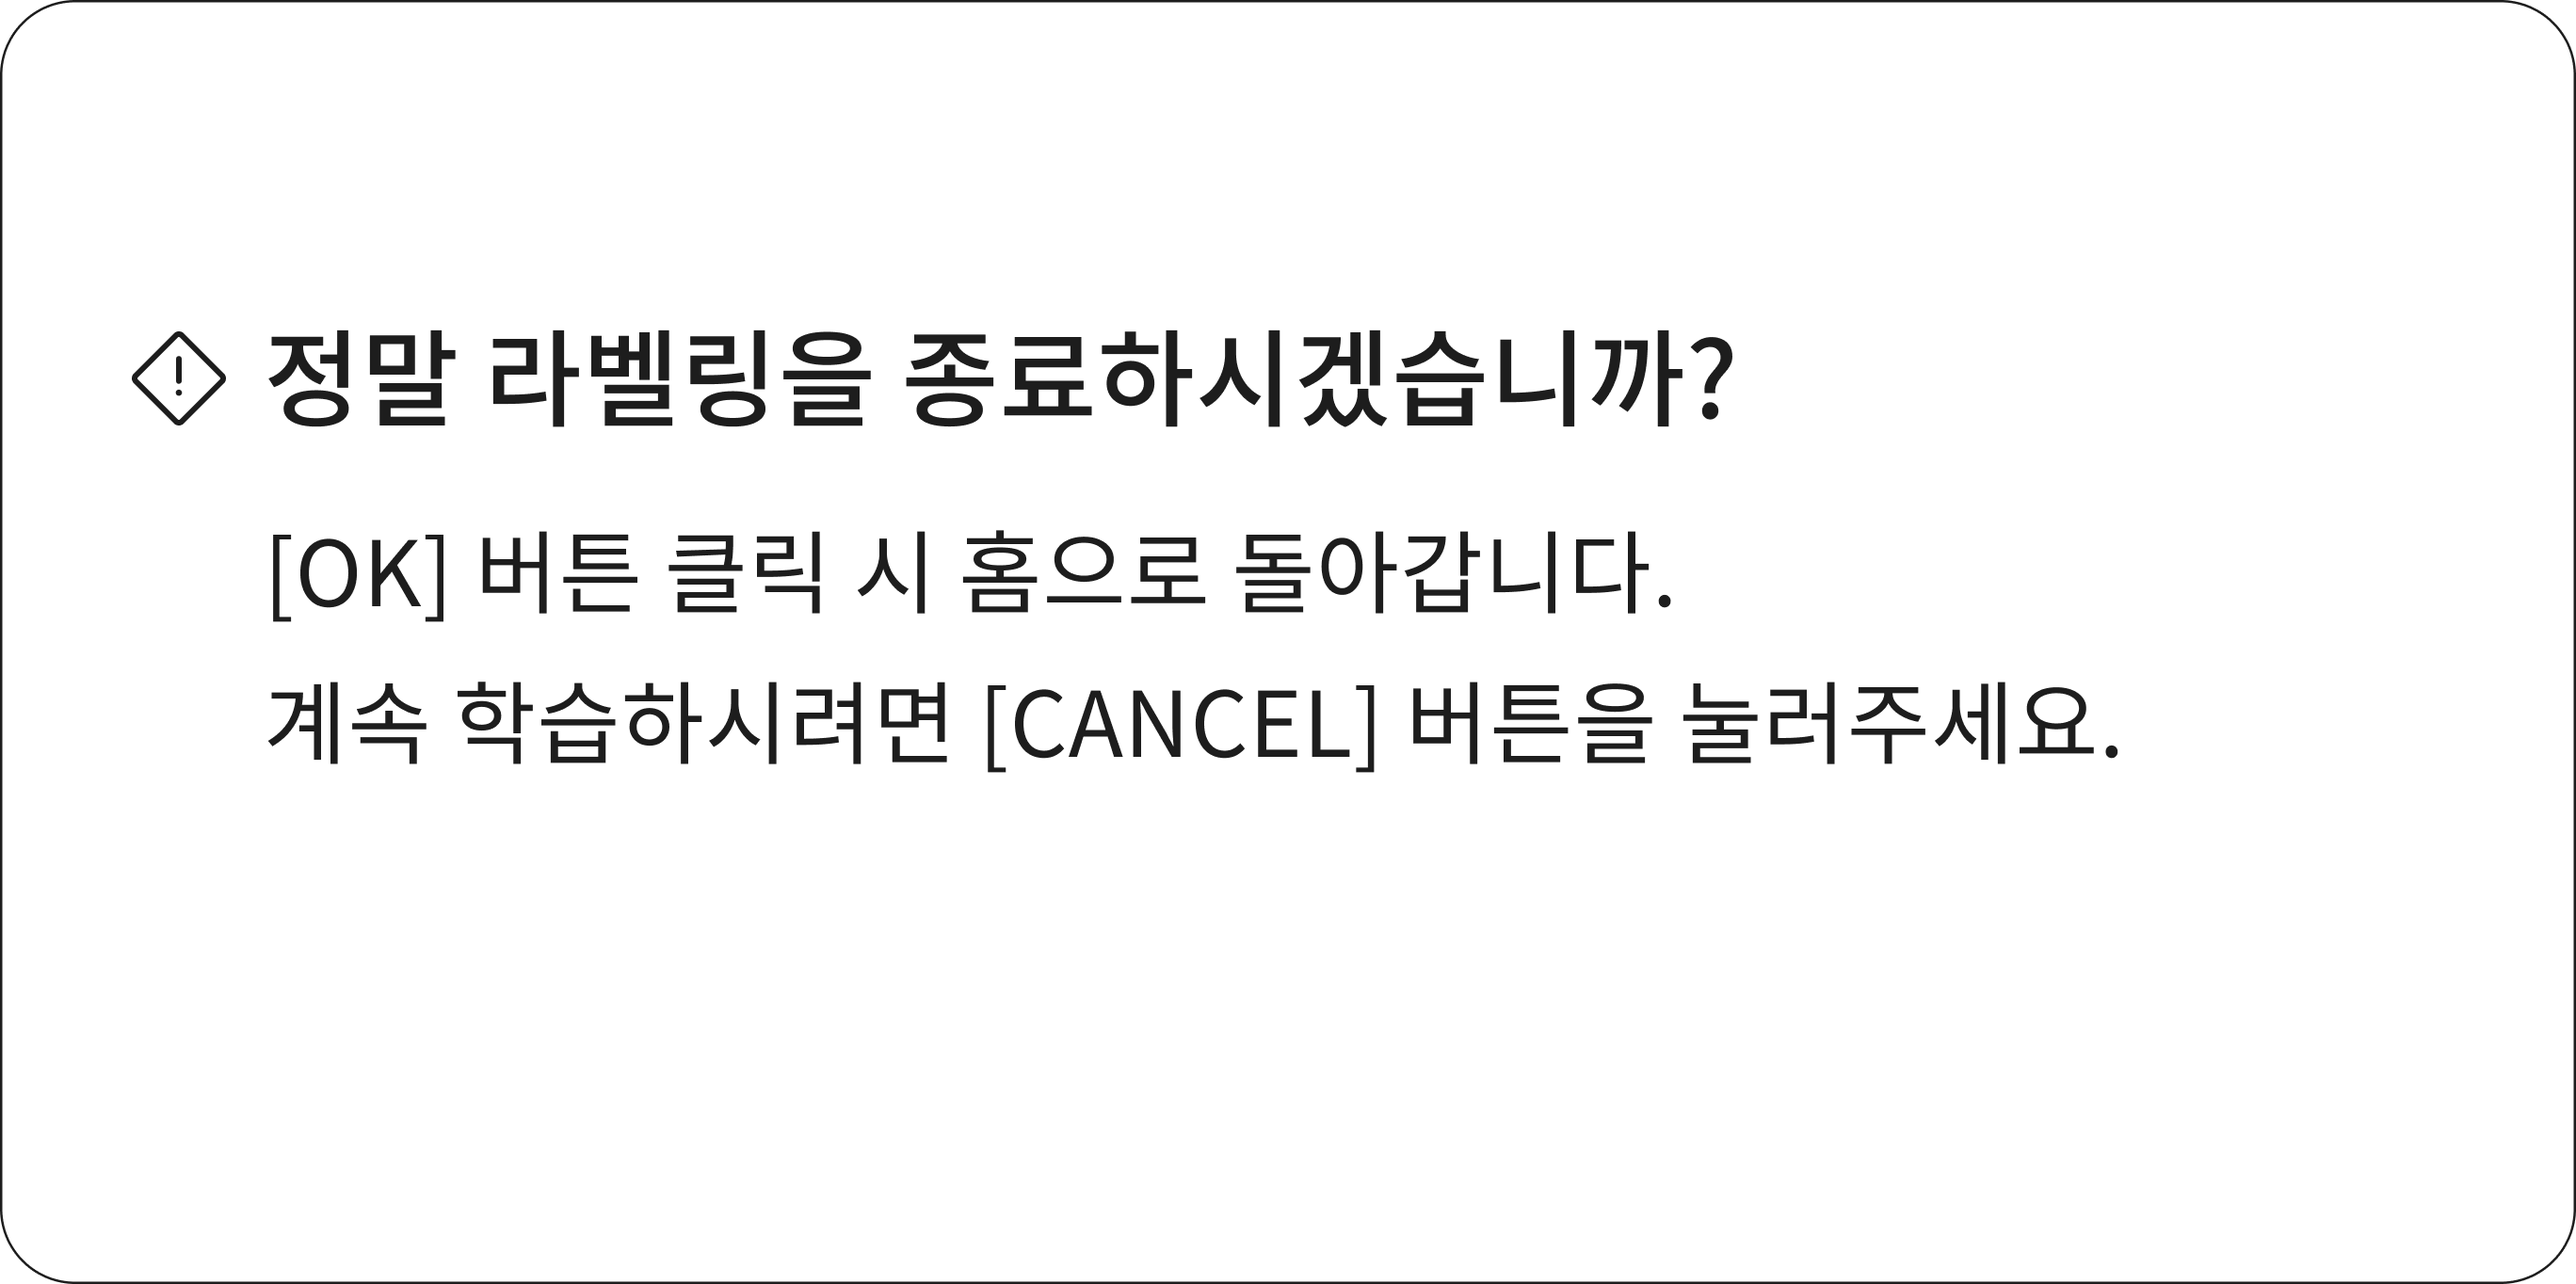
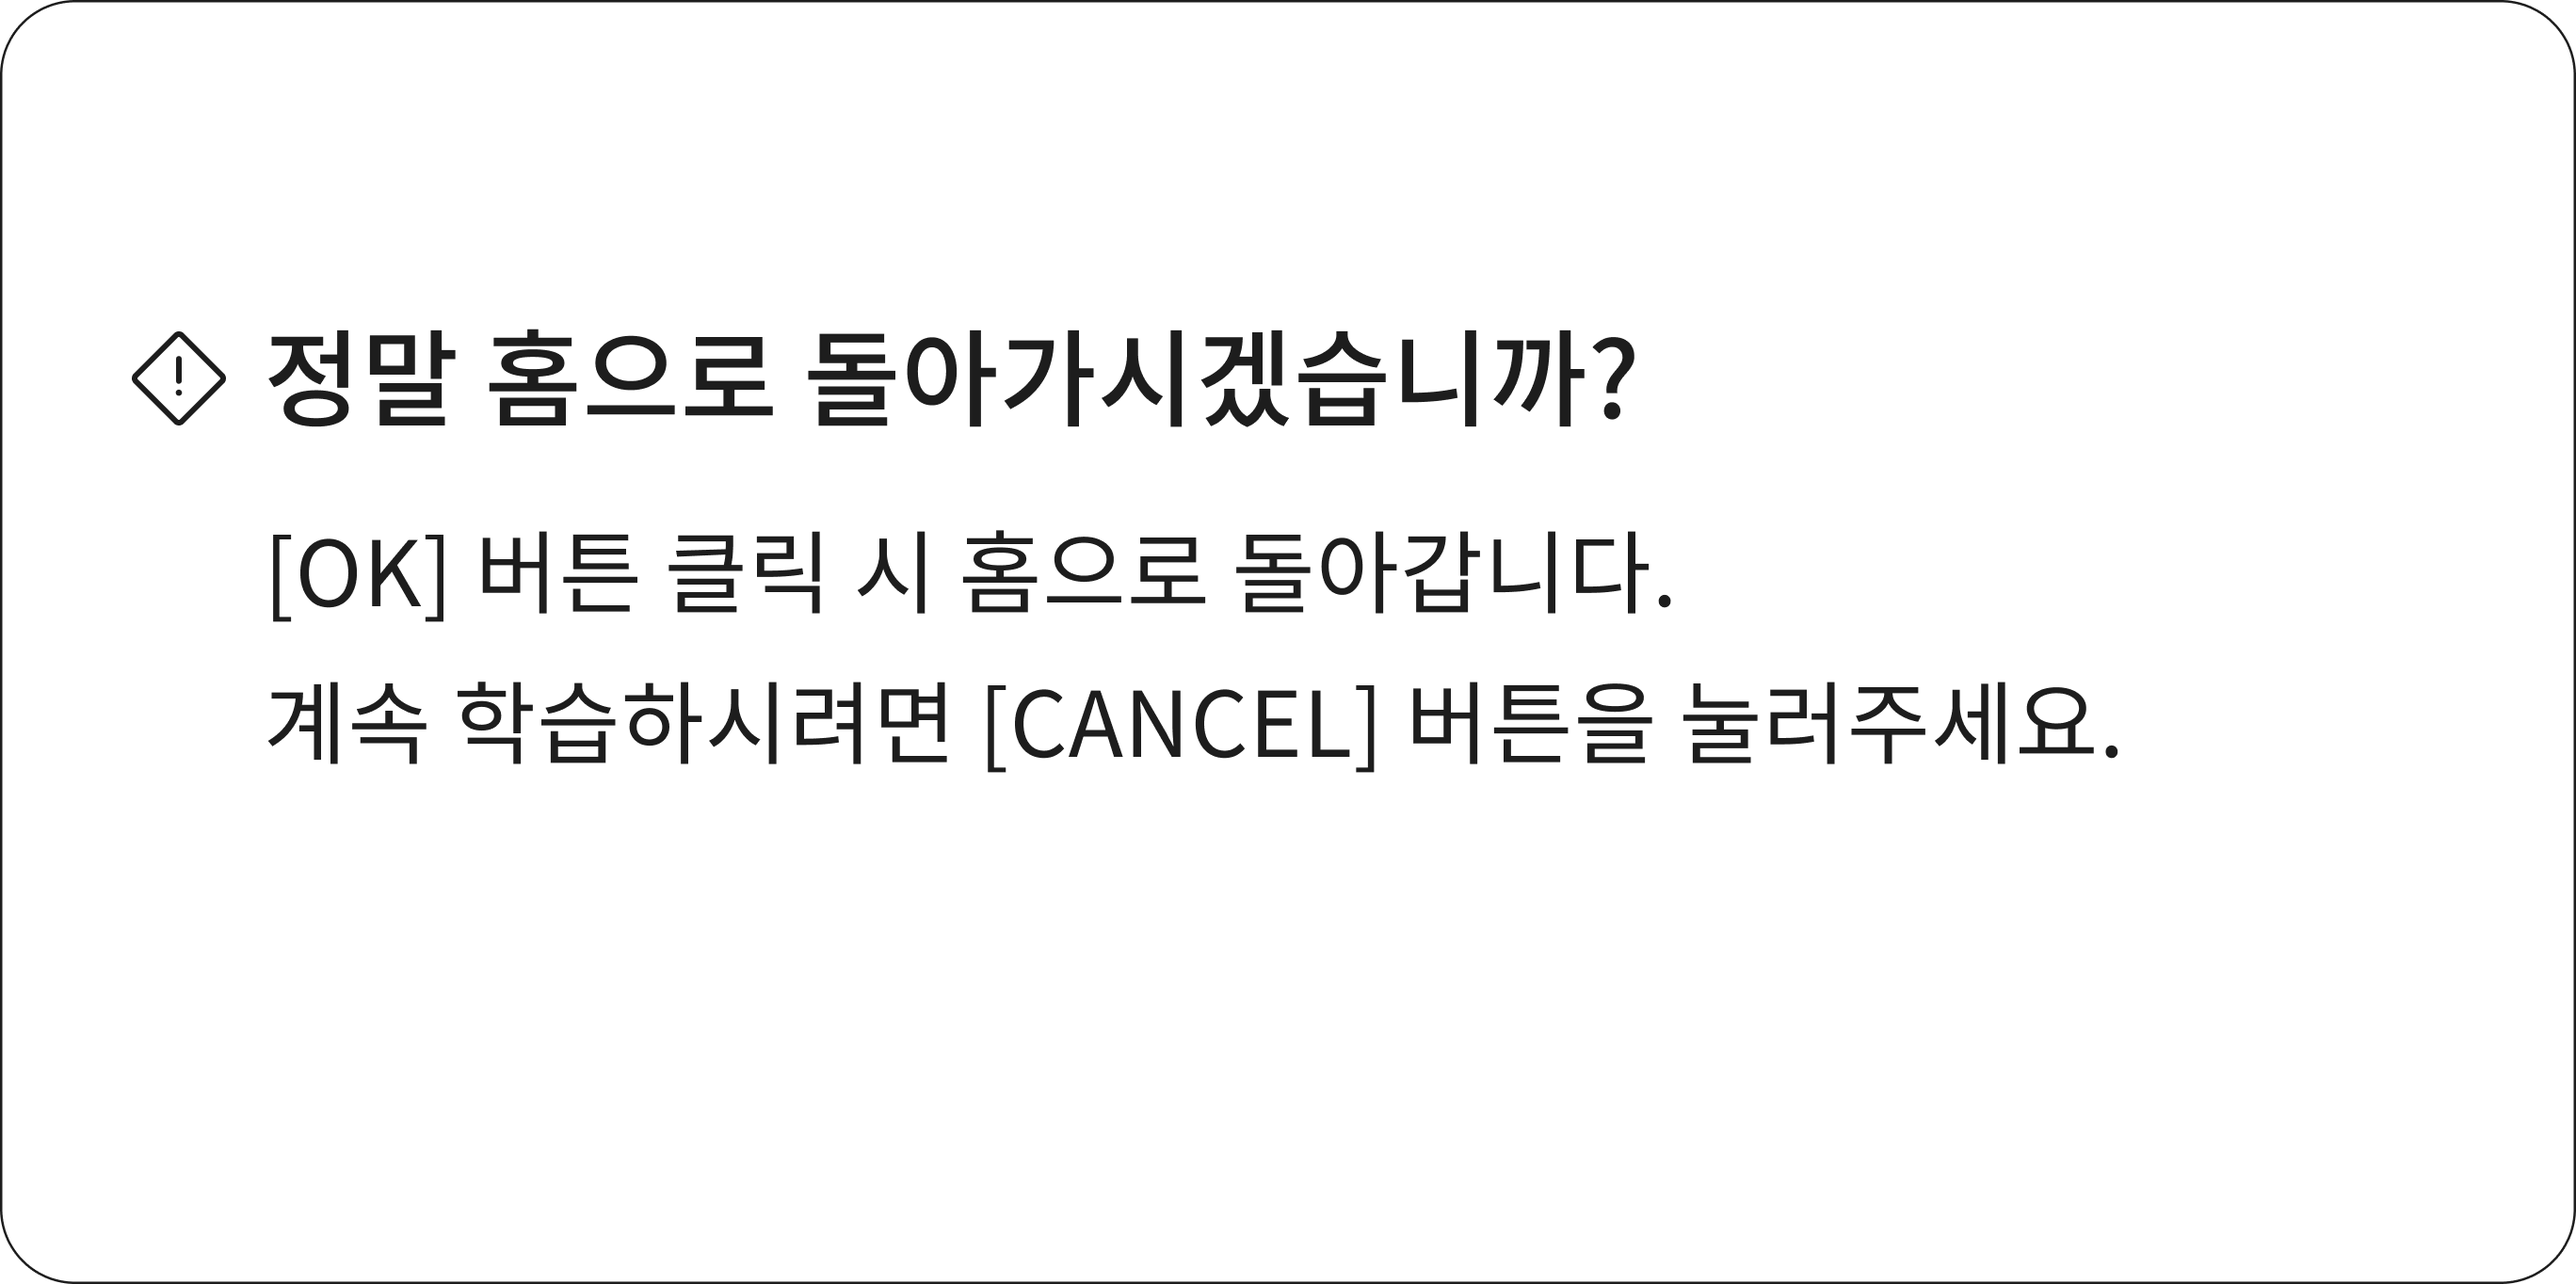
feat: develop 오류 해결
feat: develop 오류 해결

Changed region(s): [[0.1864, 0.2463, 0.6835, 0.3387]]

diff --git a/app/SAI/SAI/SAI.App/Views/Pages/UcPracticeBlockCode.cs b/app/SAI/SAI/SAI.App/Views/Pages/UcPracticeBlockCode.cs
@@ -85,8 +85,9 @@ namespace SAI.SAI.App.Views.Pages
             // 홈페이지 이동
             ibtnHome.Click += (s, e) =>
             {
-                mainView.LoadPage(new UcSelectType(mainView));
-            };
+				var dialog = new DialogHomeFromTrain();
+				dialog.ShowDialog(this);
+		    };
 
             ibtnHome.BackColor = Color.Transparent;
             ibtnInfer.BackColor = Color.Transparent;
